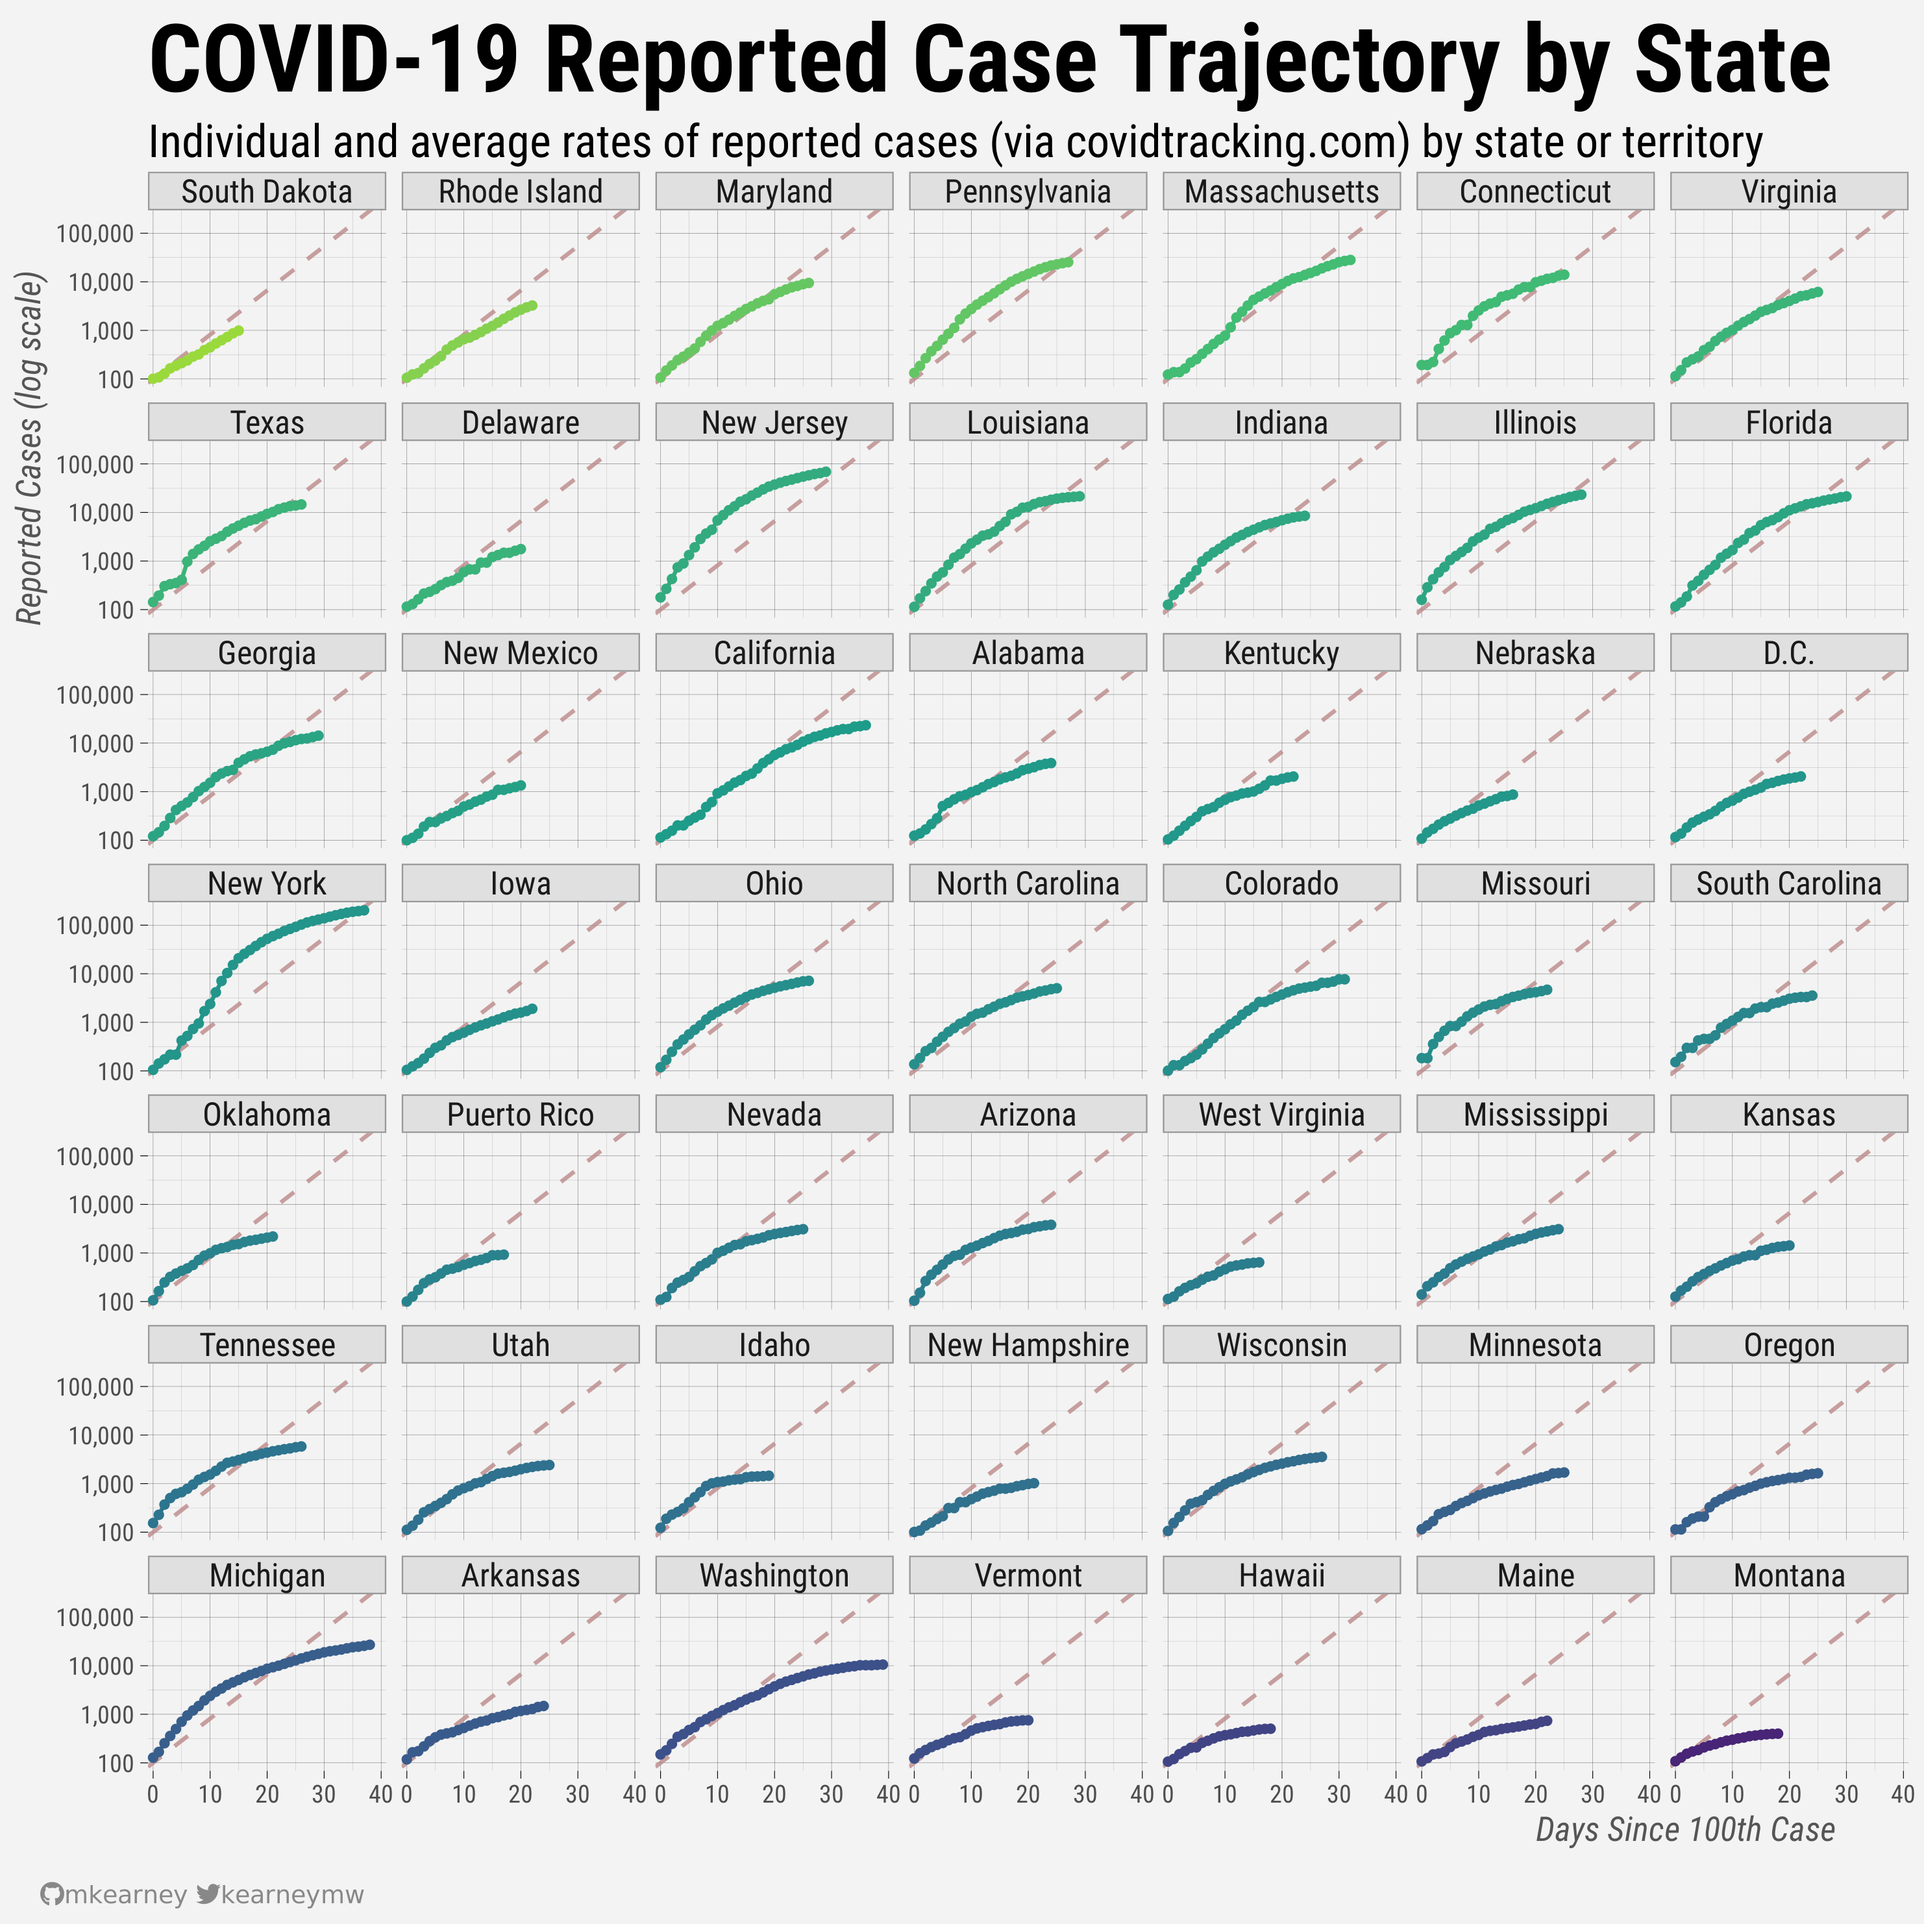
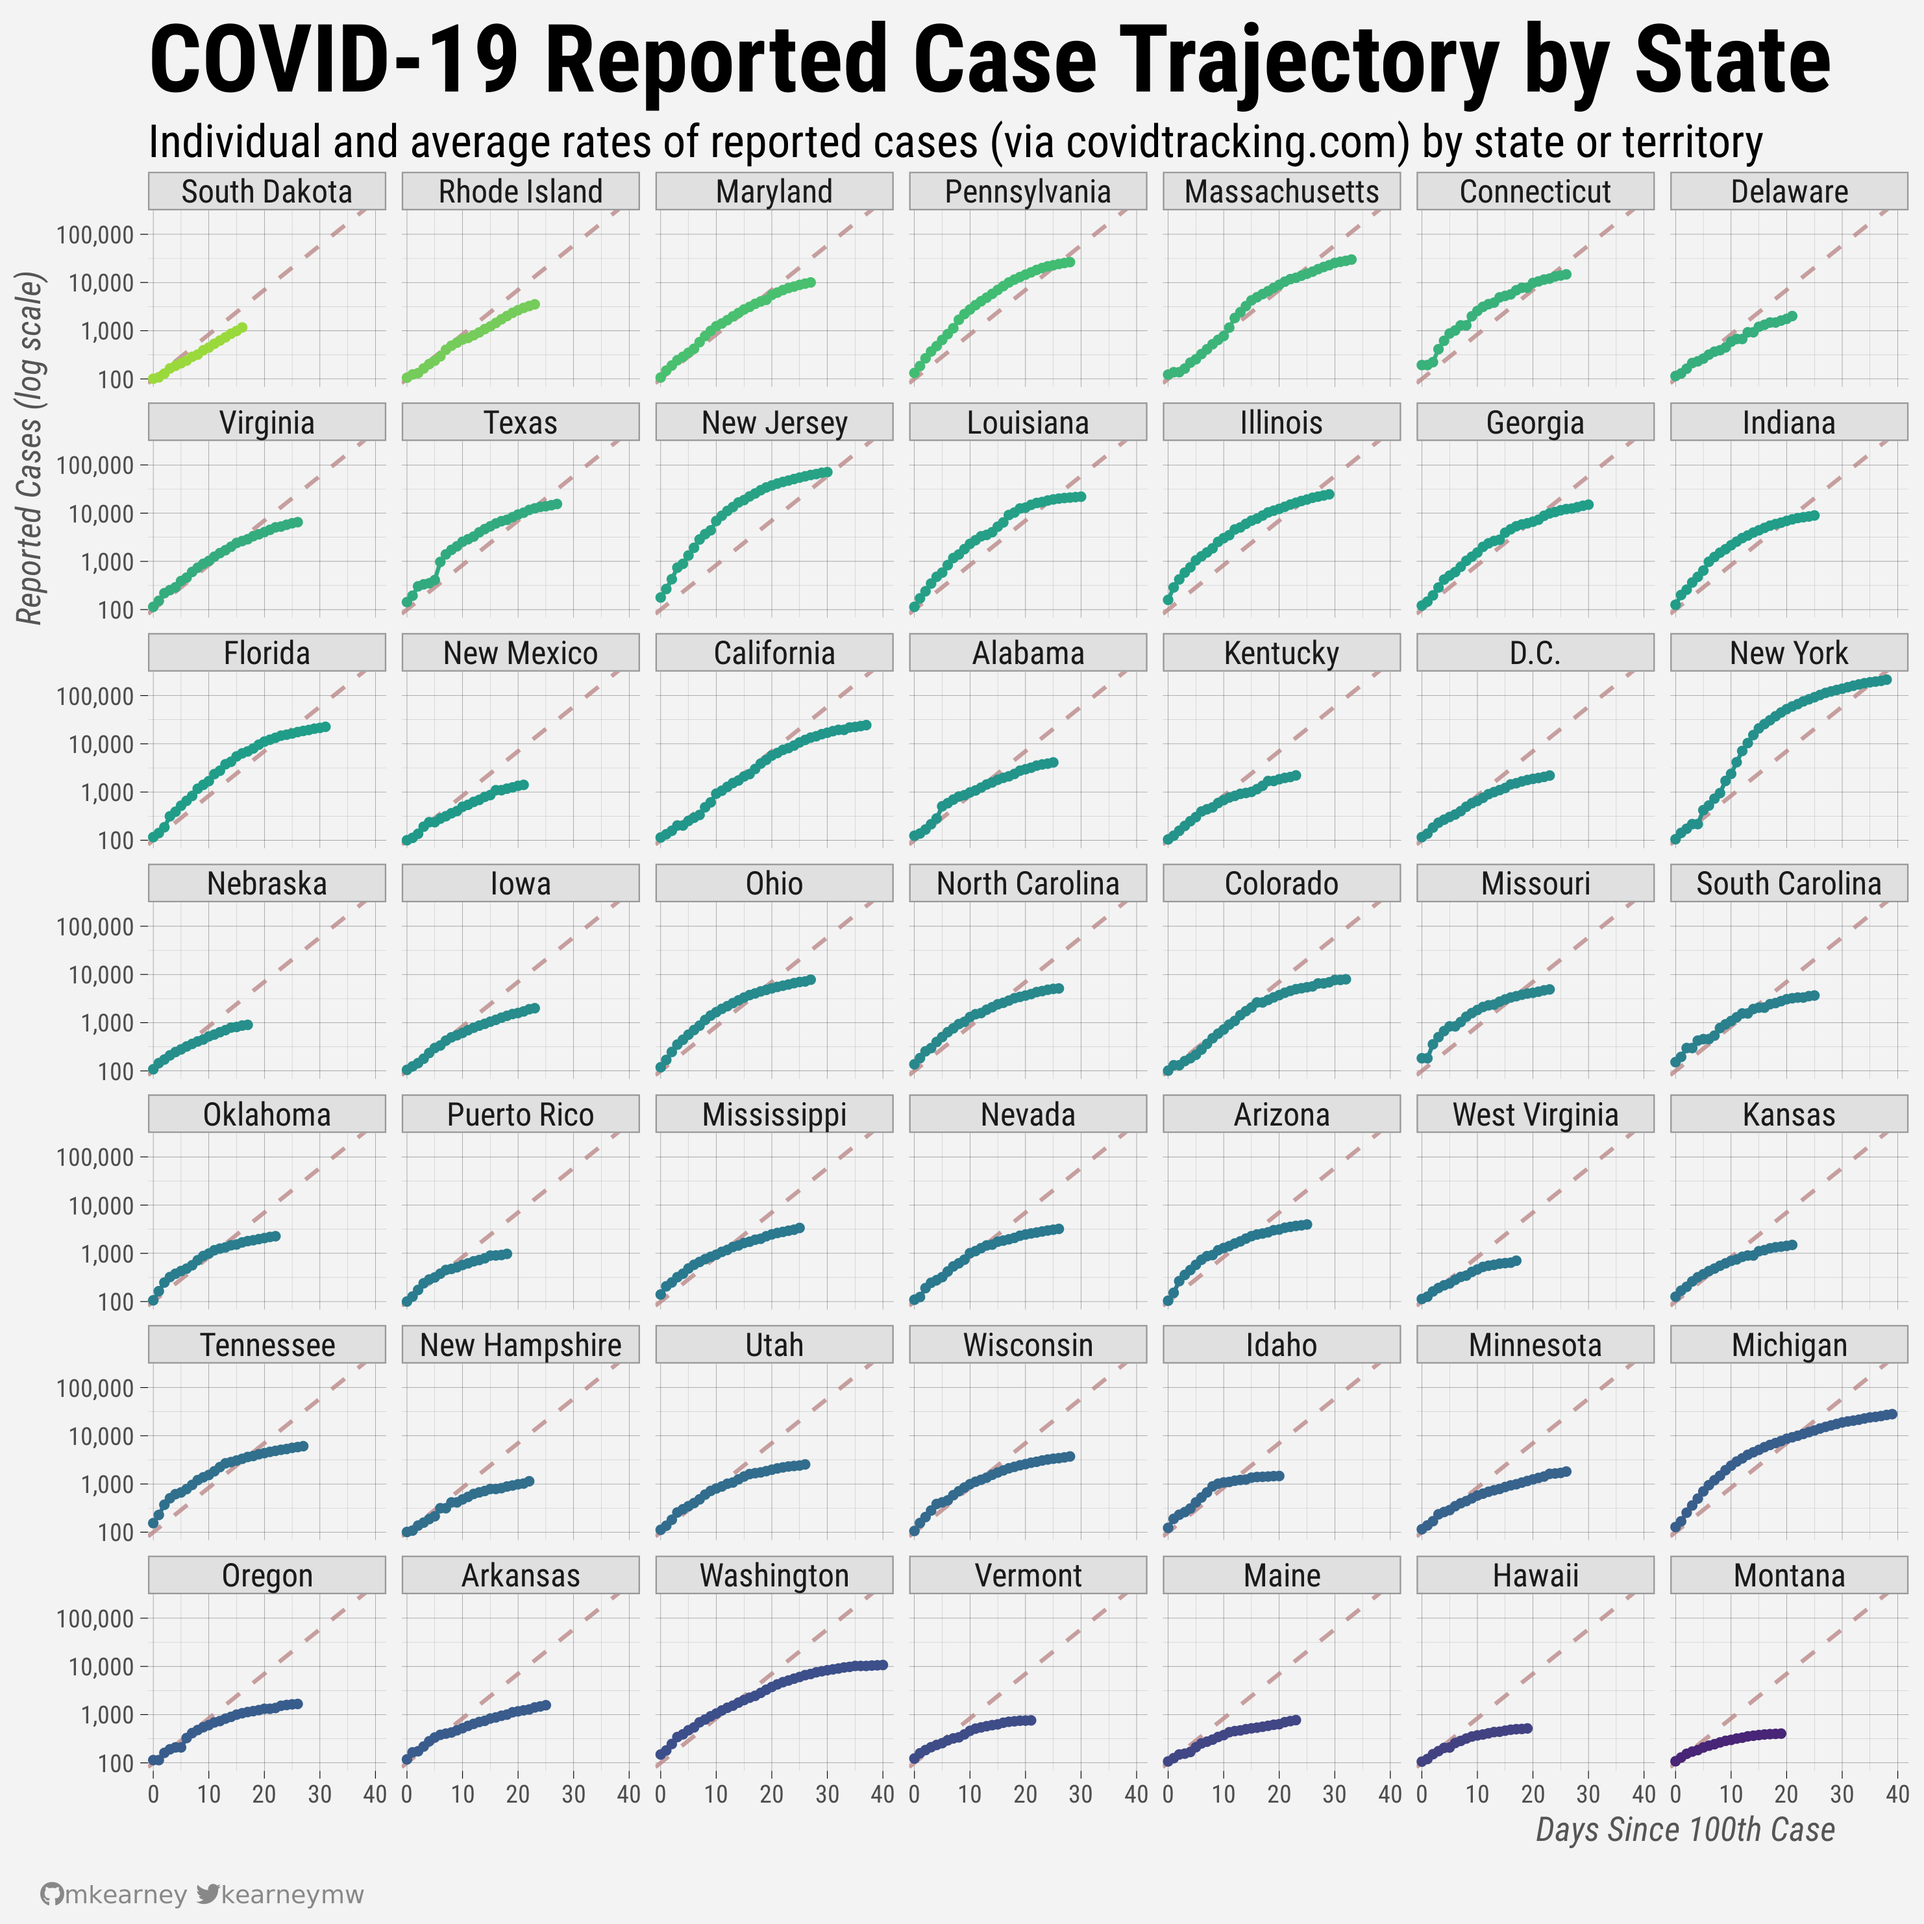
daily cron update

diff --git a/README.md b/README.md
@@ -54,20 +54,20 @@ grouped by similar endpoints and included below.
     
     ``` r
     covid19_us_daily()
-    #> # A tibble: 47 x 24
+    #> # A tibble: 48 x 24
     #>    date       states positive negative pending hospitalized_cu… hospitalized_cu…
     #>    <date>      <int>    <int>    <int>   <int>            <int>            <int>
-    #>  1 2020-04-14     56   602473  2479147   16615            54215            67547
-    #>  2 2020-04-13     56   576774  2358232   17159            50968            62673
-    #>  3 2020-04-12     56   551826  2254066   16419            51413            61201
-    #>  4 2020-04-11     56   522843  2142823   16593            51409            58549
-    #>  5 2020-04-10     56   493252  2036030   17435            48468            56342
-    #>  6 2020-04-09     56   458635  1916720   17622            46676            52051
-    #>  7 2020-04-08     56   424289  1788277   17219            41111            48917
-    #>  8 2020-04-07     56   394156  1678874   16548            39677            45500
-    #>  9 2020-04-06     56   363719  1561212   17283            32210            43198
-    #> 10 2020-04-05     56   334967  1440716   17303            28490            40223
-    #> # … with 37 more rows, and 17 more variables: in_icu_currently <int>,
+    #>  1 2020-04-15     56   632656  2610099   16901            58361            69603
+    #>  2 2020-04-14     56   602473  2479147   16615            54215            67547
+    #>  3 2020-04-13     56   576774  2358232   17159            50968            62673
+    #>  4 2020-04-12     56   551826  2254066   16419            51413            61201
+    #>  5 2020-04-11     56   522843  2142823   16593            51409            58549
+    #>  6 2020-04-10     56   493252  2036030   17435            48468            56342
+    #>  7 2020-04-09     56   458635  1916720   17622            46676            52051
+    #>  8 2020-04-08     56   424289  1788277   17219            41111            48917
+    #>  9 2020-04-07     56   394156  1678874   16548            39677            45500
+    #> 10 2020-04-06     56   363719  1561212   17283            32210            43198
+    #> # … with 38 more rows, and 17 more variables: in_icu_currently <int>,
     #> #   in_icu_cumulative <int>, on_ventilator_currently <int>,
     #> #   on_ventilator_cumulative <int>, recovered <int>, hash <chr>,
     #> #   date_checked <dttm>, death <int>, hospitalized <int>, total <int>,
@@ -87,16 +87,16 @@ grouped by similar endpoints and included below.
     #> # A tibble: 56 x 29
     #>    state positive positive_score negative_score negative_regula…
     #>    <chr>    <int>          <int>          <int>            <int>
-    #>  1 AK         285              1              1                1
-    #>  2 AL        3970              1              1                0
-    #>  3 AR        1480              1              1                1
-    #>  4 AZ        3806              1              1                0
-    #>  5 CA       23338              1              1                0
+    #>  1 AK         293              1              1                1
+    #>  2 AL        4113              1              1                0
+    #>  3 AR        1569              1              1                1
+    #>  4 AZ        3962              1              1                0
+    #>  5 CA       24424              1              1                0
     #>  6 CO        7941              1              1                1
-    #>  7 CT       13989              1              1                1
+    #>  7 CT       14755              1              1                1
     #>  8 DC        2197              1              1                1
-    #>  9 DE        1926              1              1                1
-    #> 10 FL       21628              1              1                1
+    #>  9 DE        2014              1              1                1
+    #> 10 FL       22511              1              1                1
     #> # … with 46 more rows, and 24 more variables: commercial_score <int>,
     #> #   grade <chr>, score <int>, negative <int>, pending <int>,
     #> #   hospitalized_currently <int>, hospitalized_cumulative <int>,
